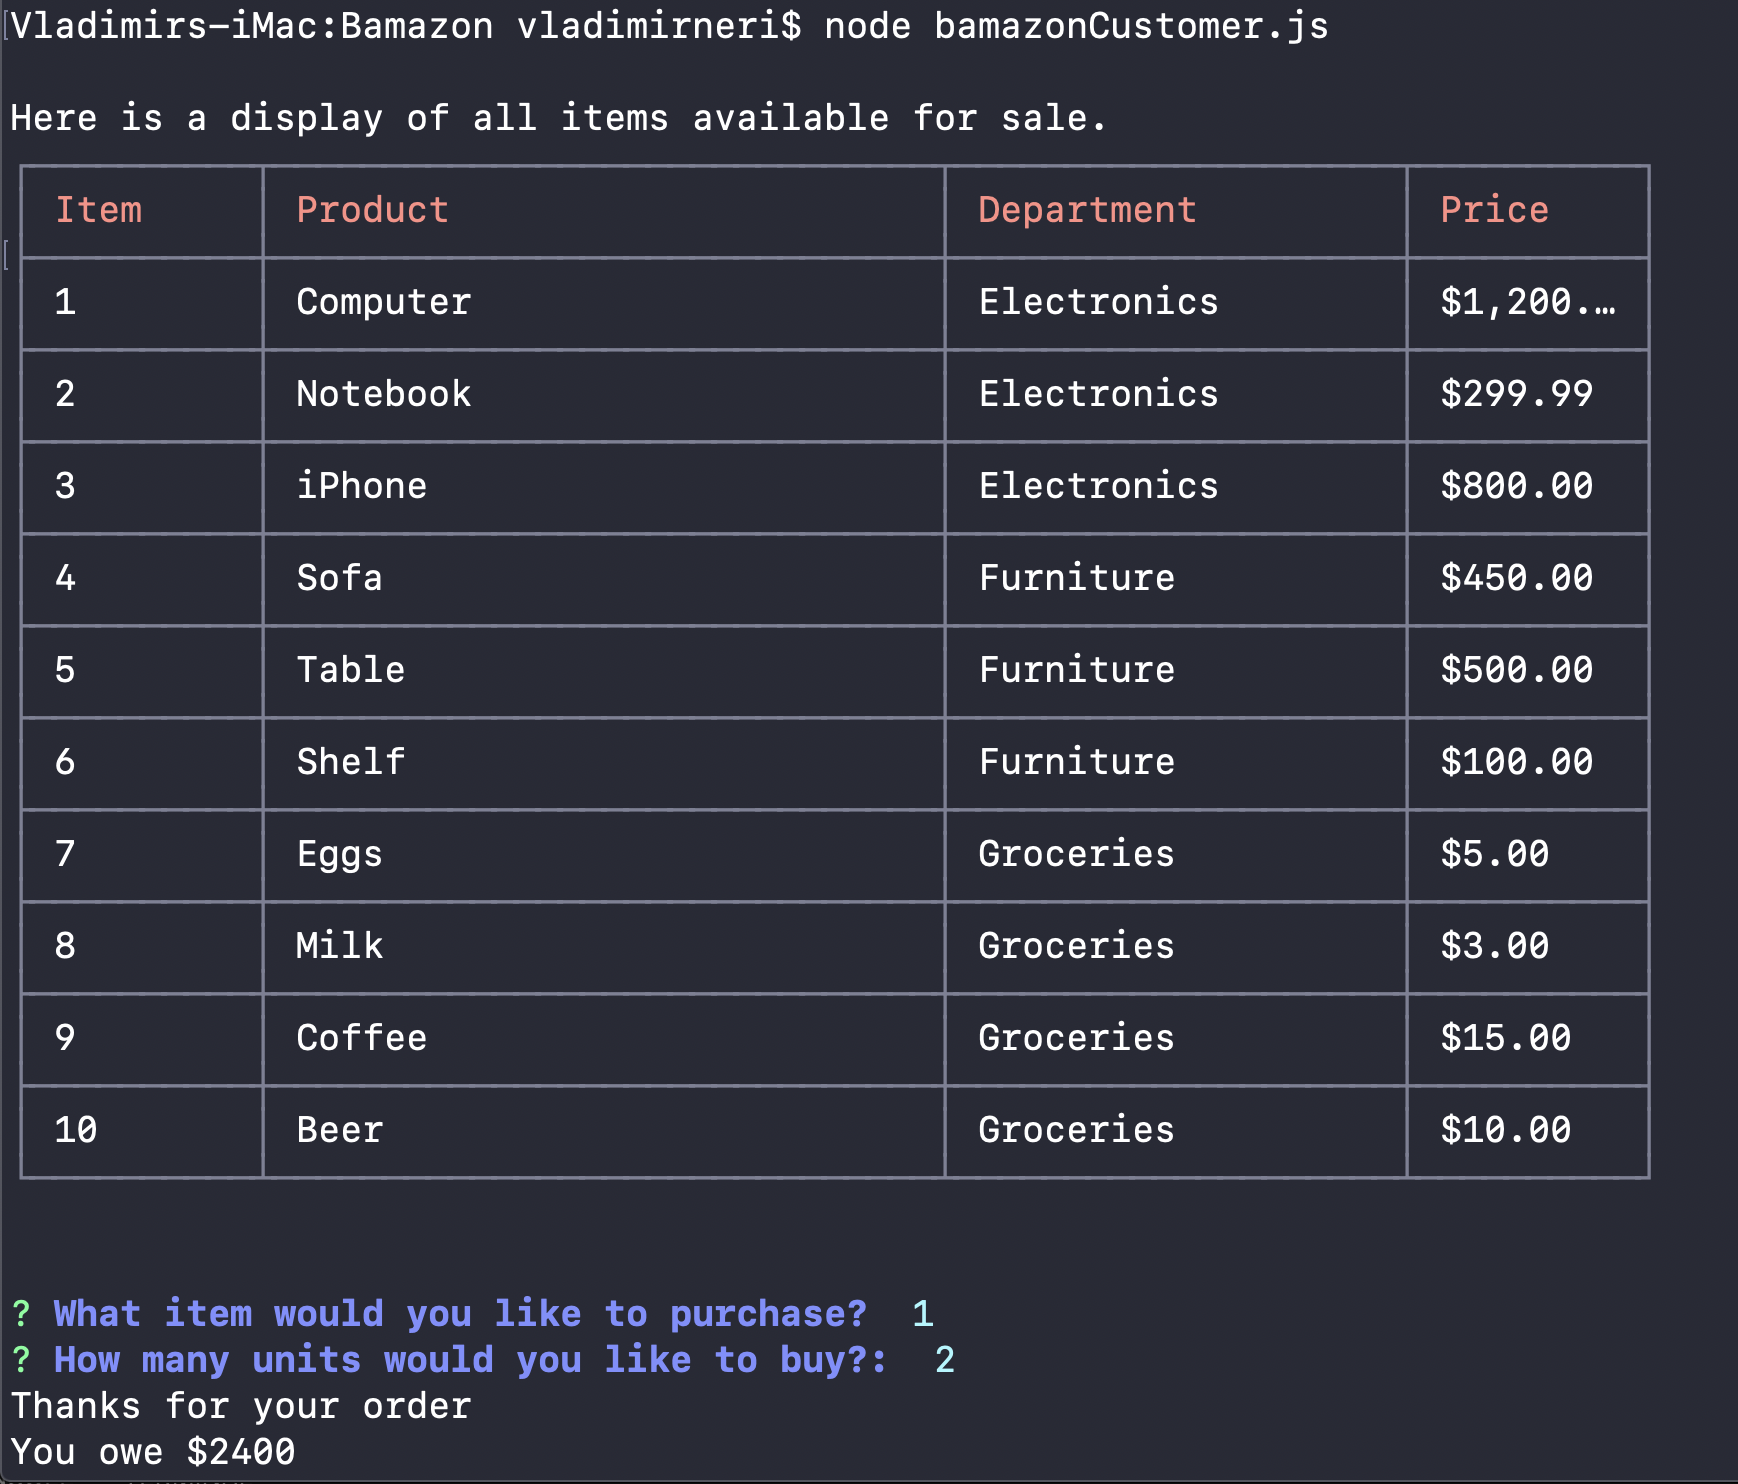
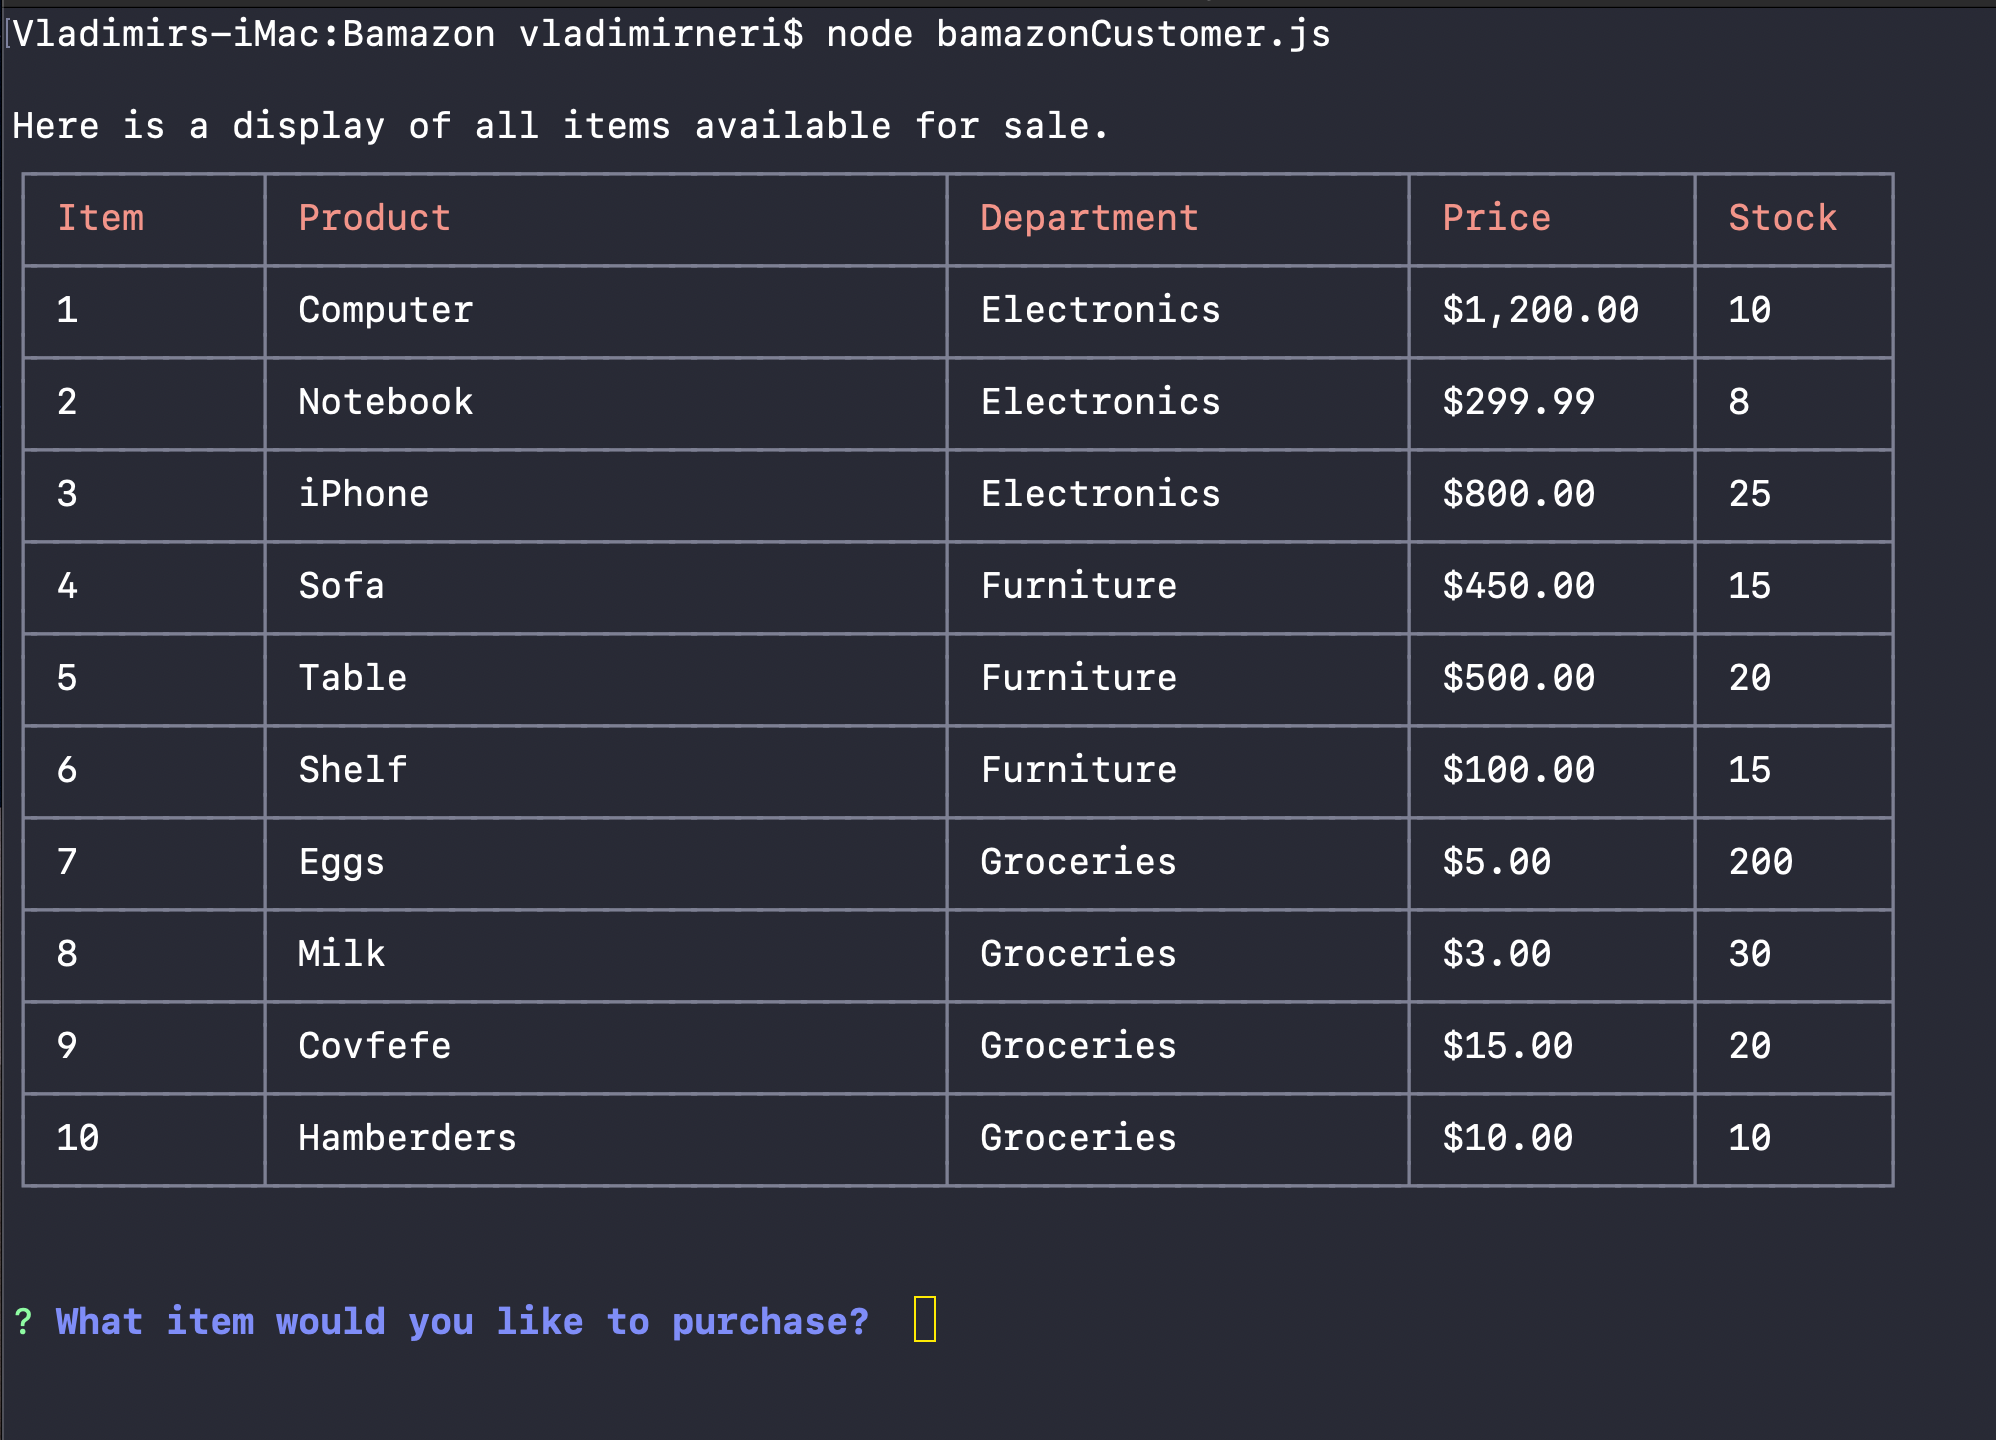
Final

diff --git a/bamazonCustomer.js b/bamazonCustomer.js
@@ -78,19 +78,21 @@ function start() {
             console.log('Insufficient Quantity');
             console.log('This order has been cancelled');
             console.log('');
+            newOrder();
           }
           else{
             amountOwed = results[0].price * answer.quantity;
             currentDepartment = results[0].DepartmentName;
-            console.log('Thanks for your order');
-            console.log('You owe $' + amountOwed);
-            console.log('');
+            console.log("Thanks for your order");
+            console.log("You owe $" + amountOwed);
+            console.log("");
             //update products table
-            connection.query('UPDATE products SET ? Where ?', [{
-              stock_quantity: results[0].stock_quantity - answer.quantity
-            },{
-              id: answer.itemId
-            }], function(err, results){});
+            // UPDATE table_name SET column_name =column_name =  value [, value ...]
+
+            
+            connection.query("UPDATE products SET stock_quantity = stock_quantity - ? WHERE item_id = ?", [answer.quantity, answer.itemId], function(err, results){
+              console.log('Successfully purchased ' + answer.quantity);
+            });
             newOrder();
           }
         })
@@ -106,7 +108,7 @@ function newOrder(){
 		message: 'Would you like to place another order?'
 	}]).then(function(answer){
 		if(answer.choice){
-			start();
+      displayProducts();
 		}
 		else{
 			console.log('Thank you for shopping at Bamazon!');

diff --git a/README.md b/README.md
@@ -4,7 +4,67 @@
 
 In this activity, you'll be creating an Amazon-like storefront with the MySQL skills you learned this unit. The app will take in orders from customers and deplete stock from the store's inventory. The app may also track product sales across your store's departments and then provide a summary of the highest-grossing departments in the store.
 
+## Instructions
+
+### Challenge #1: Customer View (Minimum Requirement)
+
+1. Create a MySQL Database called `bamazon`.
+
+2. Then create a Table inside of that database called `products`.
+
+3. The products table should have each of the following columns:
+
+   * item_id (unique id for each product)
+
+   * product_name (Name of product)
+
+   * department_name
+
+   * price (cost to customer)
+
+   * stock_quantity (how much of the product is available in stores)
+
+4. Populate this database with around 10 different products. (i.e. Insert "mock" data rows into this database and table).
+
 <p>
     <img src="https://raw.githubusercontent.com/obscura101/Bamazon/master/images/1.png" width="1000"/>
   
 </p>
+
+5. Then create a Node application called `bamazonCustomer.js`. Running this application will first display all of the items available for sale. Include the ids, names, and prices of products for sale.
+
+6. The app should then prompt users with two messages.
+
+   * The first should ask them the ID of the product they would like to buy.
+   * The second message should ask how many units of the product they would like to buy.
+
+<p>
+    <img src="https://raw.githubusercontent.com/obscura101/Bamazon/master/images/2.png" width="1000"/>
+  
+</p>
+
+7. Once the customer has placed the order, your application should check if your store has enough of the product to meet the customer's request.
+
+   * If not, the app should log a phrase like `Insufficient quantity!`, and then prevent the order from going through.
+
+
+<p>
+    <img src="https://raw.githubusercontent.com/obscura101/Bamazon/master/images/3.png" width="1000"/>
+  
+</p>
+
+
+8. However, if your store _does_ have enough of the product, you should fulfill the customer's order.
+   * This means updating the SQL database to reflect the remaining quantity.
+   * Once the update goes through, show the customer the total cost of their purchase.
+
+
+<p>
+    <img src="https://raw.githubusercontent.com/obscura101/Bamazon/master/images/4.png" width="1000"/>
+  
+</p>
+
+
+
+
+
